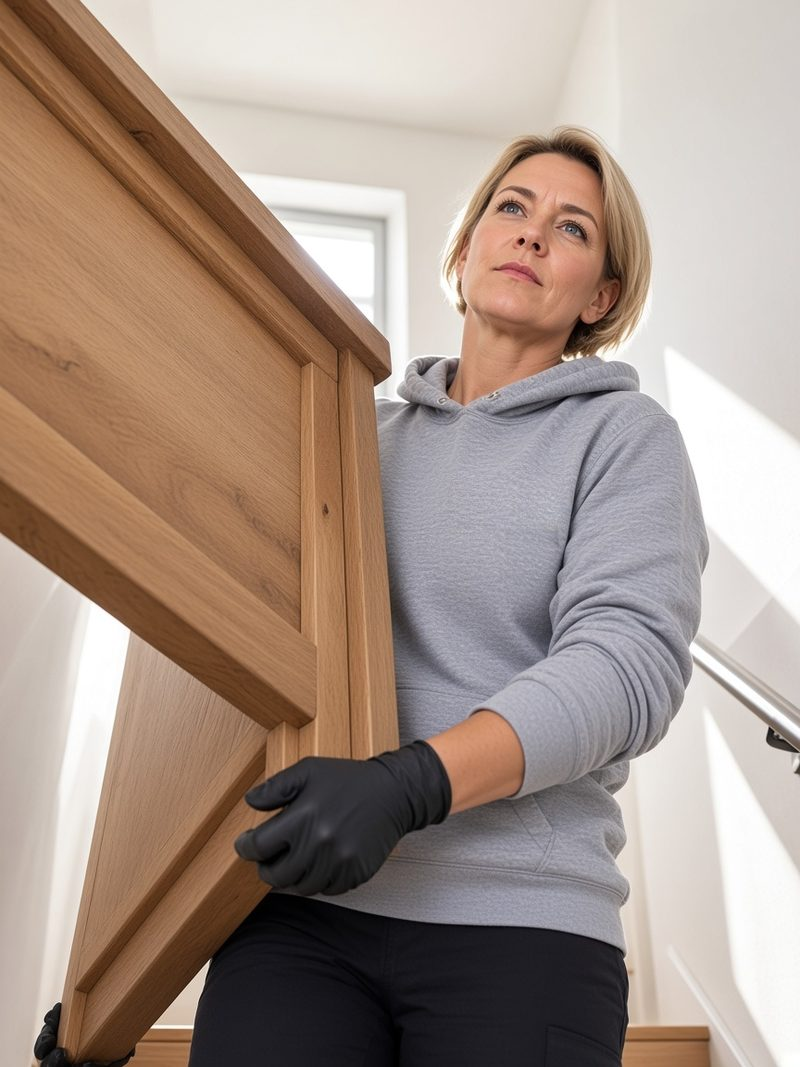
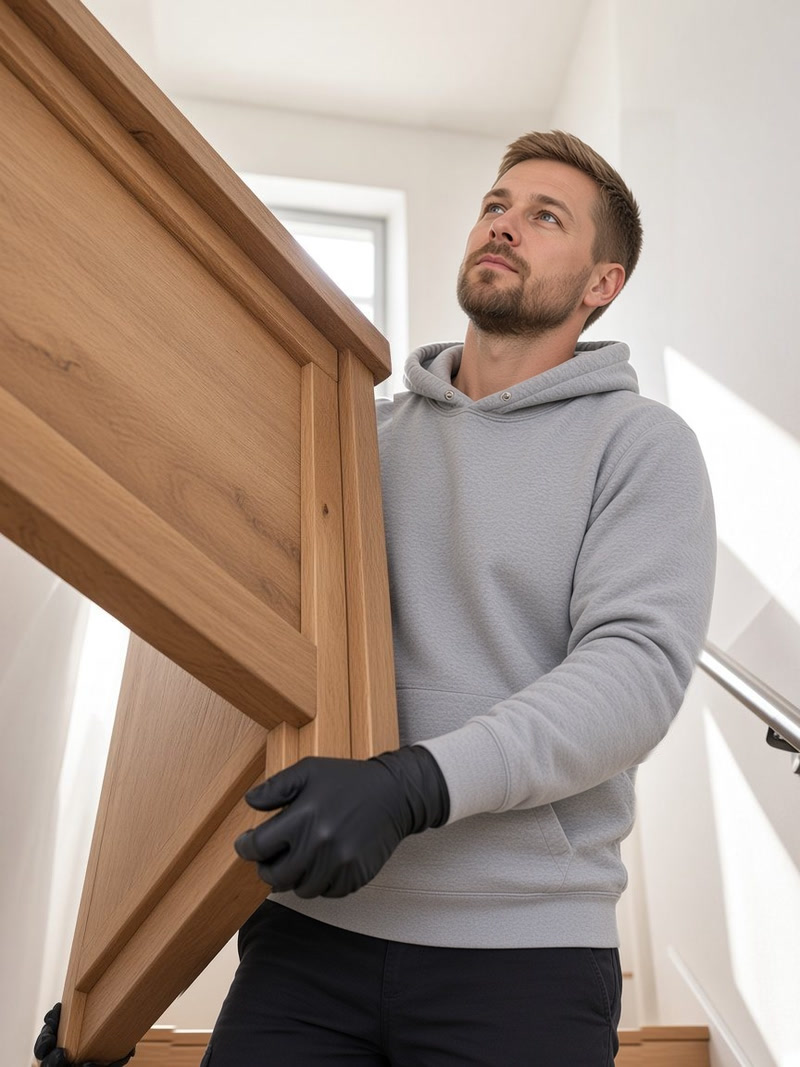
MegaClean: neue Hero-, Umzugs- und Treppenhausbilder
Die gelieferten Dateien ersetzen die gleichnamigen Bilder. Kleinere Varianten sind daraus abgeleitet, die größere Treppenhausdatei entfällt. Im Hero steht derselbe Beispielbild-Hinweis wie unter den Kacheln.

Changed region(s): [[0.3125, 0.0928, 0.9062, 1.0], [0.2188, 0.866, 0.3125, 1.0]]

diff --git a/index.html b/index.html
@@ -114,6 +114,7 @@
 
 <section class="hero" id="start" aria-labelledby="h-hero">
   <div class="hero__bg" aria-hidden="true"><img src="img/header-v4-1280.jpg" srcset="img/header-v4-800.jpg 800w, img/header-v4-1280.jpg 1280w, img/header-v4-1920.jpg 1920w" sizes="100vw" fetchpriority="high" width="1920" height="1080" alt="" decoding="async"></div>
+  <p class="schnell__hinweis hero__hinweis">Beispielbilder, KI-bearbeitet.</p>
   <div class="wrap">
     <div class="hero__text">
       <p class="eyebrow">Zuverlässig · Kurzfristige Termine · Faire Festpreise</p>
@@ -133,9 +134,9 @@
   <div class="wrap"><ul class="schnell__liste">
     <li><a href="#gebaeudereinigung"><img src="img/buero-saugen-v2-800.jpg" width="800" height="600" alt="" decoding="async" style="object-position:40% 25%"><span>Gebäudereinigung</span></a></li>
     <li><a href="#entruempelung"><img src="img/entruempelung-v2-800.jpg" width="800" height="600" alt="" decoding="async" style="object-position:50% 30%"><span>Entrümpelung</span></a></li>
-    <li><a href="#umzuege"><img src="img/moebeltransport-treppe-800.jpg" srcset="img/moebeltransport-treppe-800.jpg 800w, img/moebeltransport-treppe-864.jpg 864w" width="864" height="1152" alt="Person trägt ein Holzmöbel eine Treppe hinauf." decoding="async" style="object-position:50% 40%"><span>Umzüge</span></a></li>
-    <li><a href="#einblicke"><img src="img/treppenhaus-real-864.jpg" srcset="img/treppenhaus-real-864.jpg 864w, img/treppenhaus-real-1152.jpg 1152w" width="864" height="1152" alt="Person wischt mit einem Tuch einen Holzhandlauf in einem Treppenhaus." decoding="async" style="object-position:40% 20%"><span>Treppenhaus</span></a></li>
-    <li><a href="#einblicke"><img src="img/marvin-fenster-800.jpg" srcset="img/marvin-fenster-800.jpg 800w, img/marvin-fenster-1152.jpg 1152w, img/marvin-fenster-1536.jpg 1536w" width="800" height="600" alt="Mitarbeiter von Mega Clean in grauem Pullover mit Logo reinigt mit einem Abzieher eine Fensterfront; im Hintergrund ein Firmenwagen." decoding="async" style="object-position:40% 3%"><span>Fenster &amp; Glas</span></a></li>
+    <li><a href="#umzuege"><img src="img/moebeltransport-treppe-800.jpg" srcset="img/moebeltransport-treppe-800.jpg 800w, img/moebeltransport-treppe-864.jpg 864w" width="864" height="1152" alt="Person in grauem Pullover trägt ein Holzmöbel durchs Treppenhaus." decoding="async" style="object-position:50% 40%"><span>Umzüge</span></a></li>
+    <li><a href="#einblicke"><img src="img/treppenhaus-real-864.jpg" srcset="img/treppenhaus-real-864.jpg 864w" width="864" height="1152" alt="Person in grauem Pullover wischt das Treppengeländer." decoding="async" style="object-position:40% 20%"><span>Treppenhaus</span></a></li>
+    <li><a href="#einblicke"><img src="img/marvin-fenster-800.jpg" srcset="img/marvin-fenster-800.jpg 800w, img/marvin-fenster-1152.jpg 1152w, img/marvin-fenster-1536.jpg 1536w" width="800" height="600" alt="Person in grauem Pullover reinigt mit einem Abzieher eine Fensterfront." decoding="async" style="object-position:40% 3%"><span>Fenster &amp; Glas</span></a></li>
   </ul>
   <p class="schnell__hinweis">Beispielbilder, KI-bearbeitet.</p>
   </div>

diff --git a/style.css b/style.css
@@ -106,6 +106,8 @@ ul,ol{margin:0;padding:0;list-style:none}
 .schnell__liste li:last-child a{aspect-ratio:8/3}
 @media (min-width:760px){.schnell__liste{grid-template-columns:repeat(5,1fr)}.schnell__liste li:last-child{grid-column:auto}.schnell__liste a,.schnell__liste li:last-child a{aspect-ratio:3/4}}
 .schnell__hinweis{margin:.65rem 0 0;font-size:.8rem;line-height:1.4;font-weight:500;color:var(--mut)}
+.hero__hinweis{position:absolute;z-index:2;margin:0;right:1.15rem;bottom:clamp(6rem,11vw,8.6rem);color:rgba(255,255,255,.88);text-shadow:0 1px 2px rgba(30,41,51,.55);pointer-events:none}
+@media (max-width:899px){.hero__hinweis{top:calc(75vw - 1.85rem);bottom:auto;right:.75rem}}
 
 /* Sektionen */
 .sektion{padding:clamp(3.5rem,8vw,6.5rem) 0}
